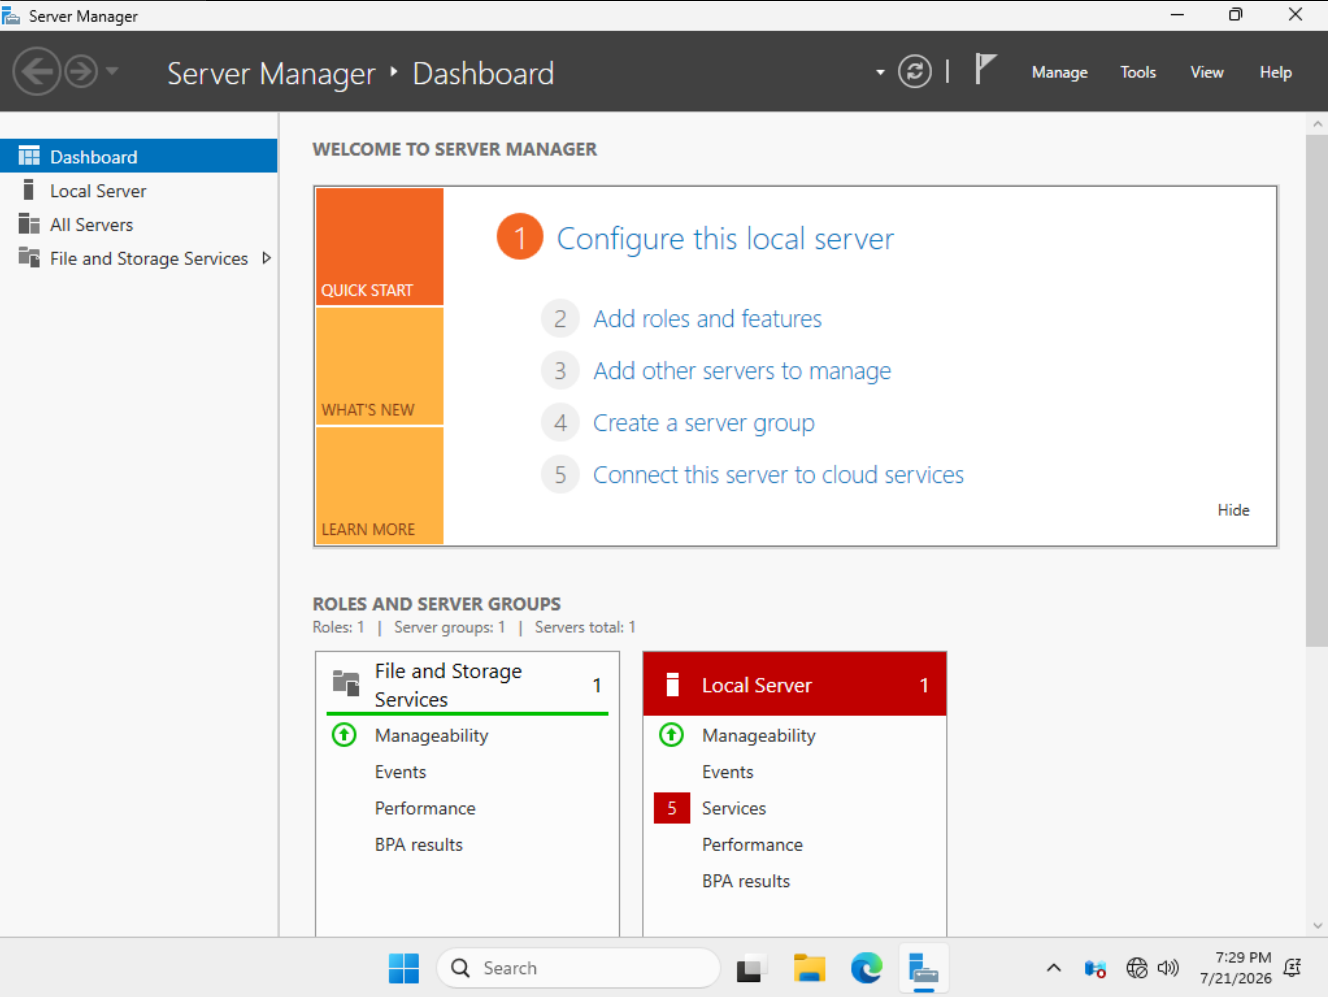
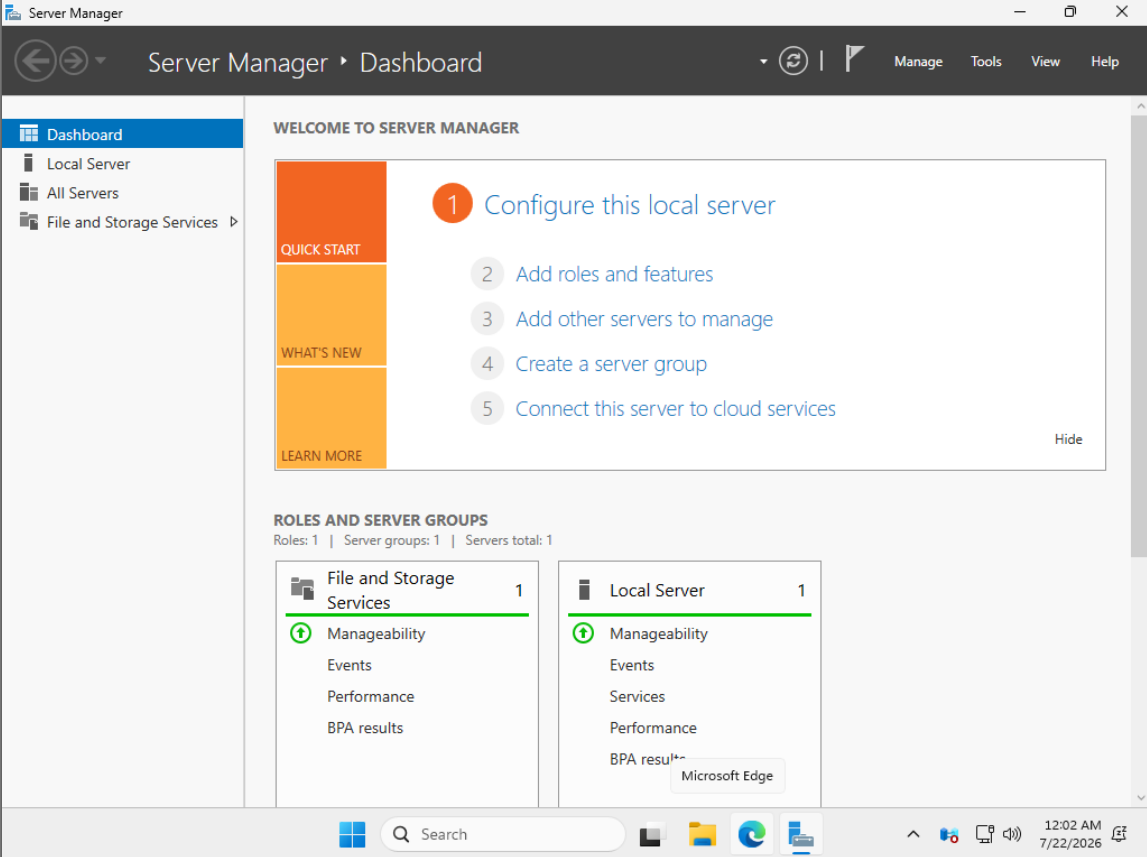
Complete Windows Server 2025 AD DS installation and domain controller setup

diff --git a/labs/06-active-directory-kerberos/docs/install-configure-server.md b/labs/06-active-directory-kerberos/docs/install-configure-server.md
@@ -21,15 +21,135 @@ In this part of the lab, a Windows Server 2025 virtual machine was prepared and 
 
 **Figure 1.** VMware virtual machine configured with UEFI firmware and Secure Boot enabled.
 
-![VMware Firmware Configuration](screenshots/install-configure-server/vmware-firmware.png)
+![VMware Firmware Configuration](evidence/screenshots/install-configure-server/vmware-firmware.png)
 
 **Figure 2.** VMware virtual machine configured with a Trusted Platform Module (TPM 2.0) and connected to the LAN_C network segment.
 
-![VMware Network Configuration](screenshots/install-configure-server/vmware-network.png)
+![VMware Network Configuration](evidence/screenshots/install-configure-server/vmware-network.png)
+
+
+## Configure Static Network Settings
 
 **Figure 3.** Windows Server 2025 Server Manager after the initial installation.
 
-![Windows Server 2025 Server Manager](screenshots/install-configure-server/windows-server-manager.png)
+![Windows Server 2025 Server Manager](evidence/screenshots/install-configure-server/windows-server-manager.png)
+
+Before installing Active Directory Domain Services (AD DS), the server was configured with a static IPv4 address. Since the server will become the Domain Controller and DNS server for the domain, a static network configuration is required to ensure reliable authentication and name resolution.
+
+The following network settings were configured:
+
+| Setting | Value |
+|---------|-------|
+| IPv4 Address | 192.168.120.3 |
+| Subnet Mask | 255.255.255.0 |
+| Default Gateway | 192.168.120.1 |
+| Preferred DNS Server | 192.168.120.3 |
+| Alternate DNS Server | 8.8.8.8 |
+
+**Figure 4.** Static IPv4 and DNS configuration for the Windows Server 2025 Domain Controller.
+
+![IPv4 Configuration](evidence/screenshots/install-configure-server/ipv4-properties.png)
+
+The network configuration was verified using the `ipconfig /all` command to confirm that the static IP address, subnet mask, default gateway, and DNS server settings were correctly applied.
+
+**Figure 5.** Verification of the server network configuration using `ipconfig /all`.
+
+![IP Configuration Verification](evidence/screenshots/install-configure-server/ipconfig-all.png)
+
+Connectivity to the pfSense gateway was verified using ICMP echo requests. Successful replies confirmed that the server was connected to the correct internal network before installing Active Directory.
+
+**Figure 6.** Successful connectivity test to the default gateway.
+
+![Gateway Ping](evidence/screenshots/install-configure-server/ping-gateway.png)
 
 
+## Install Active Directory Domain Services
+
+After verifying the network configuration, the Active Directory Domain Services (AD DS) and DNS Server roles were installed using the **Add Roles and Features Wizard** in Server Manager.
+
+The following server roles were selected:
+
+- Active Directory Domain Services
+- DNS Server
+
+**Figure 7.** Selected server roles for the Active Directory installation.
+
+![Server Roles](evidence/screenshots/install-configure-server/server-roles.png)
+
+The installation automatically included the required management tools, including:
+
+- Group Policy Management
+- Remote Server Administration Tools
+- Active Directory Administrative Center
+- Active Directory module for Windows PowerShell
+- DNS Server Tools
+
+**Figure 8.** Confirmation page showing the selected roles and automatically installed management tools.
+
+![Installation Confirmation](evidence/screenshots/install-configure-server/confirmation.png)
+
+After the installation completed successfully, Server Manager displayed a notification indicating that additional configuration was required to promote the server to a Domain Controller.
+
+**Figure 9.** AD DS installation completed successfully and the server is ready for promotion.
+
+![Installation Completed](evidence/screenshots/install-configure-server/installation-complete.png)
+
+
+## Promote the Server to a Domain Controller
+
+The server was promoted as the first Domain Controller by creating a new Active Directory forest.
+
+The following root domain name was configured:
+
+```text
+parkhomenko.test
+```
+
+The default Active Directory storage locations were accepted.
+
+| Component | Location |
+|-----------|----------|
+| AD Database | C:\Windows\NTDS |
+| Log Files | C:\Windows\NTDS |
+| SYSVOL | C:\Windows\SYSVOL |
+
+**Figure 10.** Default locations for the Active Directory database, log files, and SYSVOL.
+
+![AD Paths](evidence/screenshots/install-configure-server/ad-paths.png)
+
+The configuration summary confirmed that the server would become the first Domain Controller in a new forest named **parkhomenko.test**. The DNS Server and Global Catalog roles were enabled automatically.
+
+**Figure 11.** Review of the Active Directory deployment configuration before installation.
+
+![Review Options](evidence/screenshots/install-configure-server/review-options.png)
+
+The Active Directory Configuration Wizard also generated a reusable Windows PowerShell deployment script containing the selected installation parameters. This script can be used to automate future deployments with the same configuration.
+
+- [`scripts/install-ad-ds.ps1`](evidence/logs/install-ad-ds.ps1)
+
+Before the promotion process began, the Active Directory Configuration Wizard successfully validated all prerequisite checks. The DNS delegation warning was expected because this was the first Domain Controller in a new isolated forest.
+
+**Figure 12.** Successful prerequisite validation before Domain Controller promotion.
+
+![Prerequisites Check](evidence/screenshots/install-configure-server/prerequisites-check.png)
+
+After all prerequisite checks passed successfully, the server was promoted to a Domain Controller. The installation configured the new Active Directory forest, installed the DNS service, created the Active Directory database, configured SYSVOL, and automatically restarted the server.
+
+
+## Verify Domain Controller Installation
+
+After the automatic reboot, the server joined the newly created Active Directory forest and became the first Domain Controller for the **parkhomenko.test** domain.
+
+Server Manager displayed both the **Active Directory Domain Services (AD DS)** and **DNS** management consoles, confirming that the Domain Controller promotion completed successfully.
+
+The server was now configured as:
+
+- First Domain Controller
+- Root Domain Controller
+- DNS Server
+- Global Catalog Server
+
+**Figure 13.** Server Manager after successful Domain Controller promotion.
+
+![Server Manager AD DS](evidence/screenshots/install-configure-server/server-manager-ad-ds.png)
 